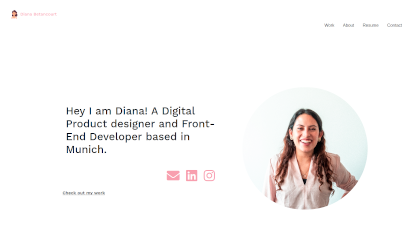
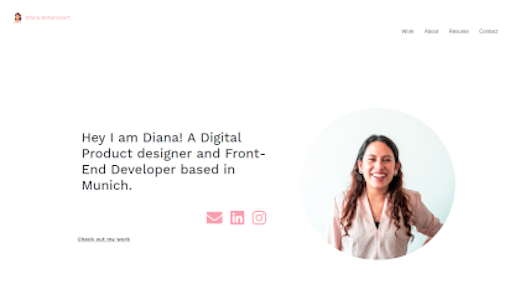
feat: responsiveness pending

Changed region(s): [[0.1548, 0.4585, 0.4952, 0.5502], [0.1548, 0.5808, 0.4643, 0.6114], [0.1548, 0.6419, 0.2476, 0.6725]]

diff --git a/index.html b/index.html
@@ -74,16 +74,27 @@
       <div class = card>
         <div class = " container row">
           <div class = "col-sm">
-            <button type="button" class="btn btn-dark">Weather Application</button>
-            <header class = "project-title"><h2>Weather Application</h2></header>
+            <button type="button" class="btn btn-dark">Travel Application</button>
+            <header class = "project-title"><h2>Travel Application</h2></header>
             <p class = "description">Building responsive experiences that communicate </p>
         </div>
          <div class = "col-sm">
-           <img id = "homePagePhoto" class = "image-fluid" src = "img/homePagePhoto.png">
+           <img id = "homePagePhoto" class = "image-fluid" src = "img/travel_app.png">
          </div>
         </div>
       </div>
-        <div class = "card">Project 3</div>
+      <div class = card>
+        <div class = " container row">
+          <div class = "col-sm">
+            <button type="button" class="btn btn-dark">Landing page</button>
+            <header class = "project-title"><h2>Landing Page</h2></header>
+            <p class = "description">Building responsive experiences that communicate </p>
+        </div>
+         <div class = "col-sm">
+           <img id = "homePagePhoto" class = "image-fluid" src = "img/travel_app.png">
+         </div>
+        </div>
+      </div>
       </div>
     </div>
       

diff --git a/css/base.css b/css/base.css
@@ -20,7 +20,7 @@ body{
 
 .introPage{
     font-family: 'Work Sans', sans-serif;
-    padding: 20vh;
+    padding: 10vh 20vh 5vh 20vh;
 }
 
 .navbar-expand-lg{
@@ -60,12 +60,28 @@ i{
     padding: 3vh;
     margin: 10vh;
     background-color: #F4F4F4;
+    border-color:#F4F4F4 ;
     box-shadow: 0 4px 8px 0 rgba(0,0,0,0.2);
     transition: 0.3s;
     font-family: 'Work Sans', sans-serif;
     
 }
+.card:hover{
+        opacity: 1;
+        display: block;
+        width: 100%;
+        height: auto;
+        transition: .5s ease;
+        backface-visibility: hidden;
+        color:#C4C4C4;
+        
+        
 
+}
+
+.card:hover .btn-dark{
+    /*background-color:#C4C4C4;*/
+}
 .btn-dark{
     text-transform: uppercase;
     font-size: 12px;
@@ -80,5 +96,5 @@ i{
 
 #homePagePhoto{
     max-width: 100%;
-
+    border-radius: 2px;
 }
